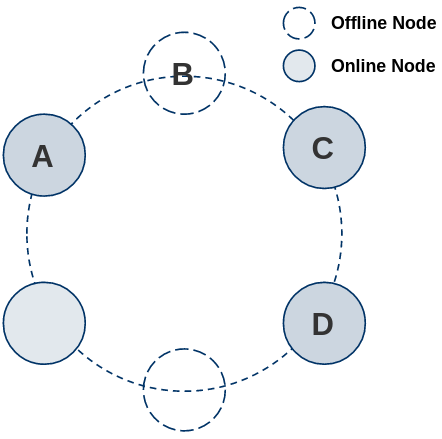
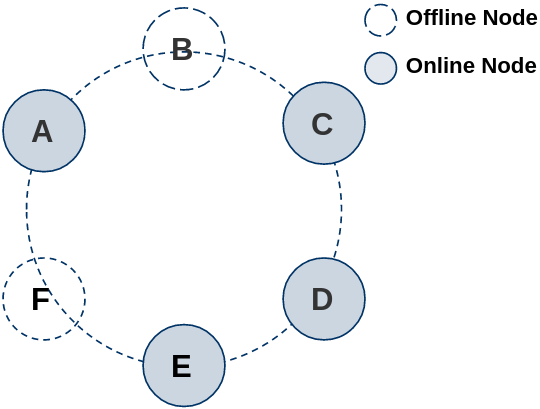
feat(report): section on re-publishing in the dht

diff --git a/docs/report/management.tex b/docs/report/management.tex
@@ -21,16 +21,31 @@ Each time a peer established a connection to a new (authorized) peer, it informs
 Analogously when a peer unexpectedly disconnects from another peer it also informs the network about it\footnote{It may happen that a connection closes but the peer is still in the network, therefore if a peer receives a \textit{DISCONNECTED} message about itself it directly sends a \textit{CONNECTED} with its own ID again.}.
 
 This list serves as basis for mapping what peer stores what information.
-To catch the case of nodes unexpectedly disconnecting messages are always stored by two other peers.
-For each message that directed to a peer, the message is sent to that peer if it is online, and additionally to those two peers for storage.
+To catch the case of nodes unexpectedly disconnecting messages are always stored by two other peers (\textit{backup peers}).
+For each message that directed to a peer, the message is sent to that peer if it is online, and additionally to the backup-peers for storage.
 The two peers are selected from the list of online peers by sorting the list by \textit{PeerId} and picking the next two peers after where the target's ID is / would be in the list.
 
-% TODO: describe how re-publishing happens if peers join/ leave the network
-
-\begin{figure}
+\begin{figure}[h]
     \centering
-    \includegraphics[width=0.3\textwidth]{assets/dht.png}
+    \includegraphics[width=0.4\textwidth]{assets/dht.png}
     \caption{DHT nodes arranged by ID in a circular list. The data for a node is persisted by the two subsequent online nodes. In this example the messages for A and B are both persisted by C and D}
     \label{fig:dht}
 \end{figure}
+
+What peers serve as backup-peers for another peer obviously changes when new peers connect to the network or go offline.
+Consider the setup shown in figure \ref{fig:dht}, where node C and D are the backup-peers for both, A and B. 
+If now C would suddenly go offline, there would be only one back-up peer left, that may go offline at some point themselves. 
+We solved this by having nodes dynamically re-publish storage message when peers connect / disconnect. 
+Concretely this means that if node C would go offline, node D would be informed of this and notice (by referring to the shared list of sorted online peers) that C was backup for A and B. 
+As the second back-up node, D stores the same data and thus can send it to the next online node in the list, node E.
+D and E would then be the two new backup peers for A and B.
+For the messages of node C no new storage is necessary because D and E are already backing its data up. 
+Similar when a new node comes online it becomes a back-up node for all nodes up until the next two preceding online nodes.
+Another node that was previously backing up the data is not required to do it anymore. 
+It sends the data to the new peer for storage and clears it from its own memory.
+For instance in figure \ref{fig:dht} if node B would join the network again, it becomes a backup node for A, F and E. 
+D would now not be a backup for A anymore and C would not be one for E and F anymore. 
+C and D would both send the data of those nodes to B and themselves stop storing it.
+
+
 

diff --git a/docs/report/network.tex b/docs/report/network.tex
@@ -28,6 +28,11 @@ In practice, the "user" is the management component described in section \ref{ma
 The library defines the abstract interface (in rust called \textit{trait}) \lstinline{NetworkLayer} for the network component, shown in listing \ref{network_layer}.
 This abstraction hides implementation details and allows in the long run to switch between alternative implementations that target different systems, e.g. with OS vs bare-metal.
 
+\begin{figure}
+    \centering
+    \lstinputlisting[caption={The \lstinline{NetworkLayer} trait \label{network_layer}}]{assets/network_layer.rs}
+\end{figure}
+
 For our PoC on systems with OS we decided to use the rust implementation of the libp2p networking stack, which already provides a number of protocol that can be used out of the box. 
 All of the protocols described below, namely TCP, Noise, MDNS, GossipSub and Request-Response are part of libp2p.
 
@@ -65,7 +70,3 @@ After a direct message was sent to a peer, the connection gracefully closes agai
 As a result of this, a peer can not know on the network layer what (authorized) peers are in total currently participating in the network.
 Instead, the network component simply bubbles up network events about peers connecting or disconnecting.
 The management component is responsible for informing other peers about these events by publishing appropriate messages. 
-
-\begin{minipage}{.45\textwidth}
-\lstinputlisting[caption={The \lstinline{NetworkLayer} trait \label{network_layer}}]{assets/network_layer.rs}
-\end{minipage}
